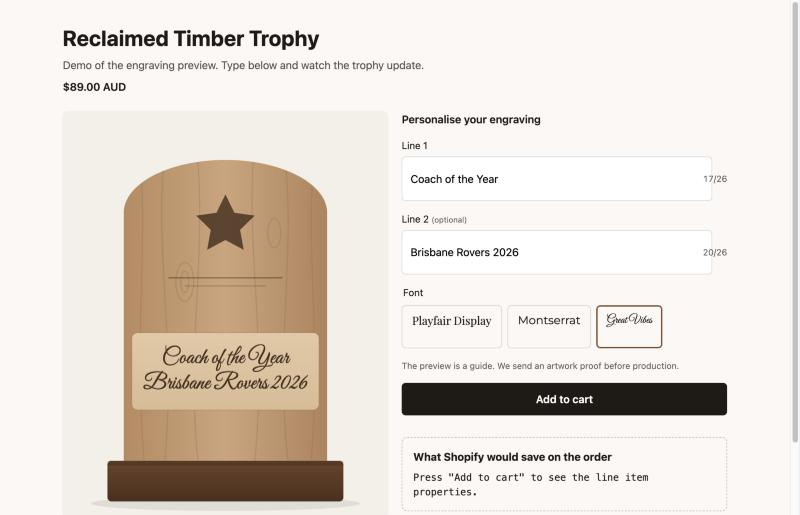
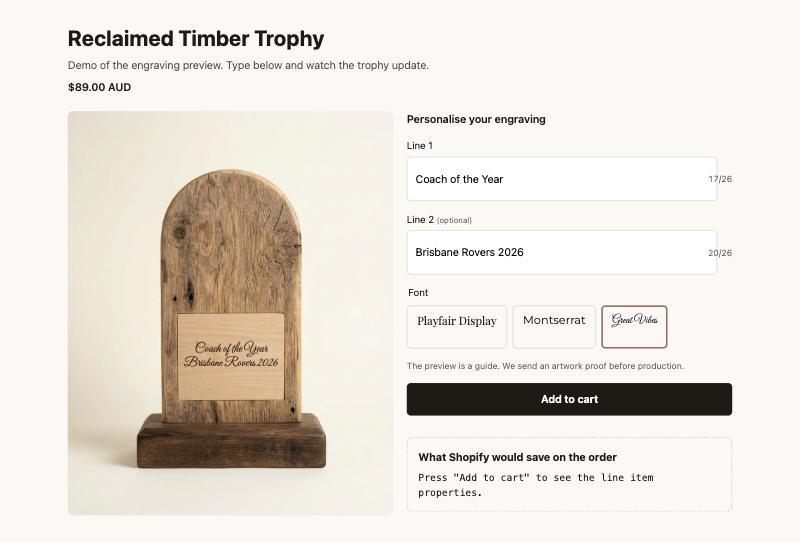
Use a photo of a reclaimed timber trophy in the demo
Replaces the drawn trophy with a generated product photo and moves the
default engraving area to the photo's blank maple panel.

diff --git a/demo/index.html b/demo/index.html
@@ -47,9 +47,9 @@
     <!-- Same markup the Liquid snippet renders on a Shopify product page. -->
     <form id="product-form-demo" action="#" novalidate></form>
 
-    <div class="engraving engraving--wide" data-engraving-preview data-area="22,56,56,16">
+    <div class="engraving engraving--wide" data-engraving-preview data-area="34.1,50.2,32.1,21.1">
       <div class="engraving__stage">
-        <img class="engraving__image" src="trophy.svg" width="800" height="1000" alt="Timber trophy with a sanded panel for engraving">
+        <img class="engraving__image" src="trophy.jpg" width="928" height="1152" alt="Reclaimed timber trophy with a blank maple panel for engraving">
         <div class="engraving__area" aria-hidden="true">
           <span class="engraving__line" data-engraving-line="1"></span>
           <span class="engraving__line" data-engraving-line="2"></span>
@@ -100,7 +100,7 @@
       <p class="engraving__status" aria-live="polite" data-engraving-status></p>
     </div>
 
-    <footer>Built by Madiha F. Trophy illustration made for this demo.</footer>
+    <footer>Built by Madiha F. Trophy photo generated for this demo.</footer>
   </main>
 
   <script src="../assets/engraving-preview.js"></script>

diff --git a/assets/engraving-preview.css b/assets/engraving-preview.css
@@ -25,10 +25,10 @@
 /* Default area; JavaScript replaces it with the product's own values. */
 .engraving__area {
   position: absolute;
-  left: 22%;
-  top: 56%;
-  width: 56%;
-  height: 16%;
+  left: 34.1%;
+  top: 50.2%;
+  width: 32.1%;
+  height: 21.1%;
   display: flex;
   flex-direction: column;
   align-items: center;

diff --git a/README.md b/README.md
@@ -42,7 +42,7 @@ Built for personalised products like trophies, plaques, cutting boards and gifts
 
    | Metafield | Type | Default | Use |
    |---|---|---|---|
-   | `engraving.area` | Single line text | `22,56,56,16` | Engraving position as `left,top,width,height` in % of the photo |
+   | `engraving.area` | Single line text | `34.1,50.2,32.1,21.1` | Engraving position as `left,top,width,height` in % of the photo |
    | `engraving.max_chars` | Integer | `26` | Characters per line |
    | `engraving.fonts` | Single line text | `Playfair Display,Montserrat,Great Vibes` | Google Fonts to offer |
    | `engraving.required` | True or false | `false` | Make line 1 required before adding to cart |
